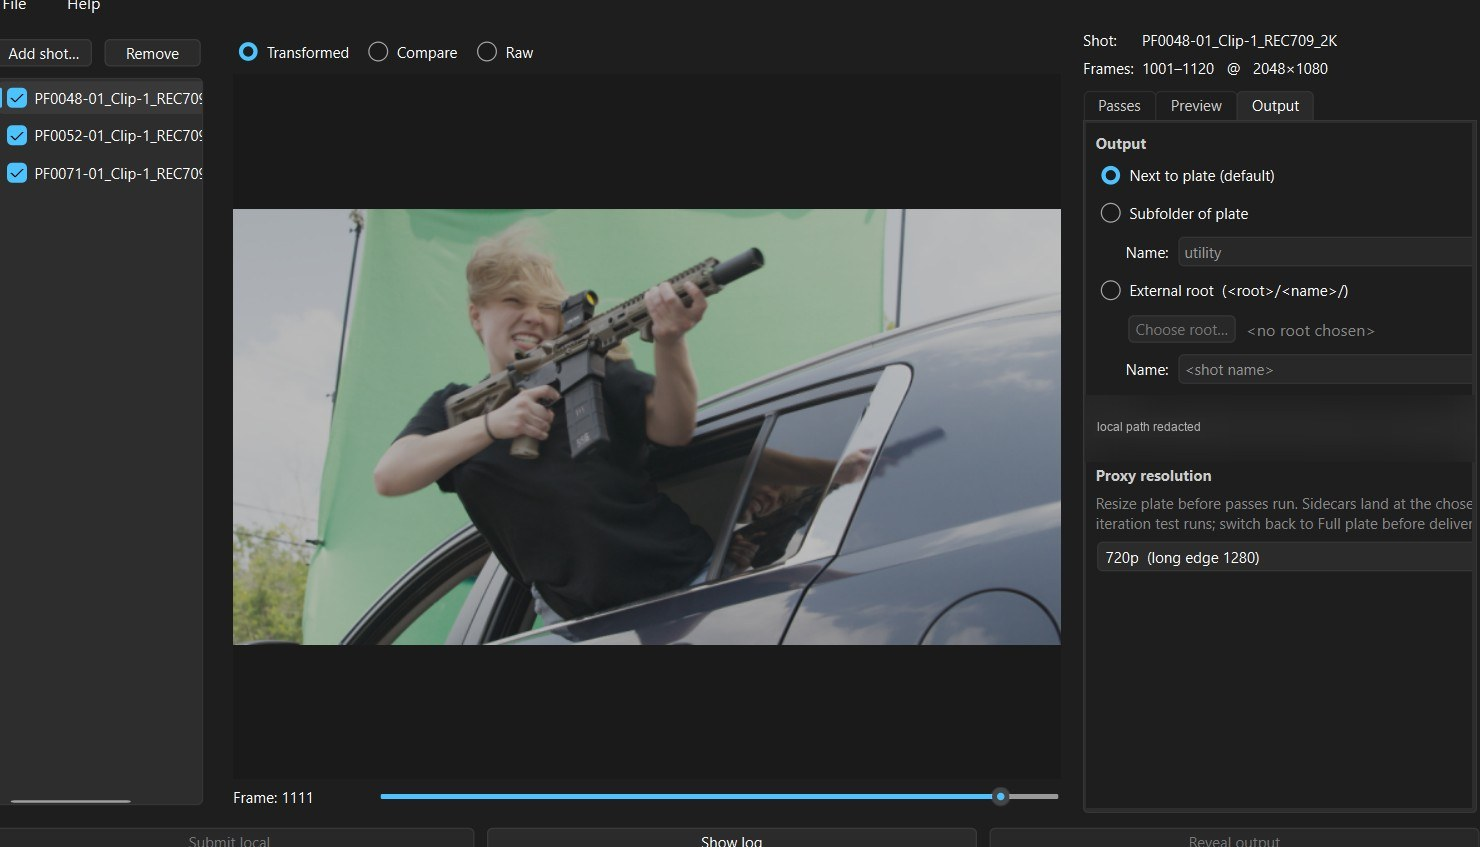
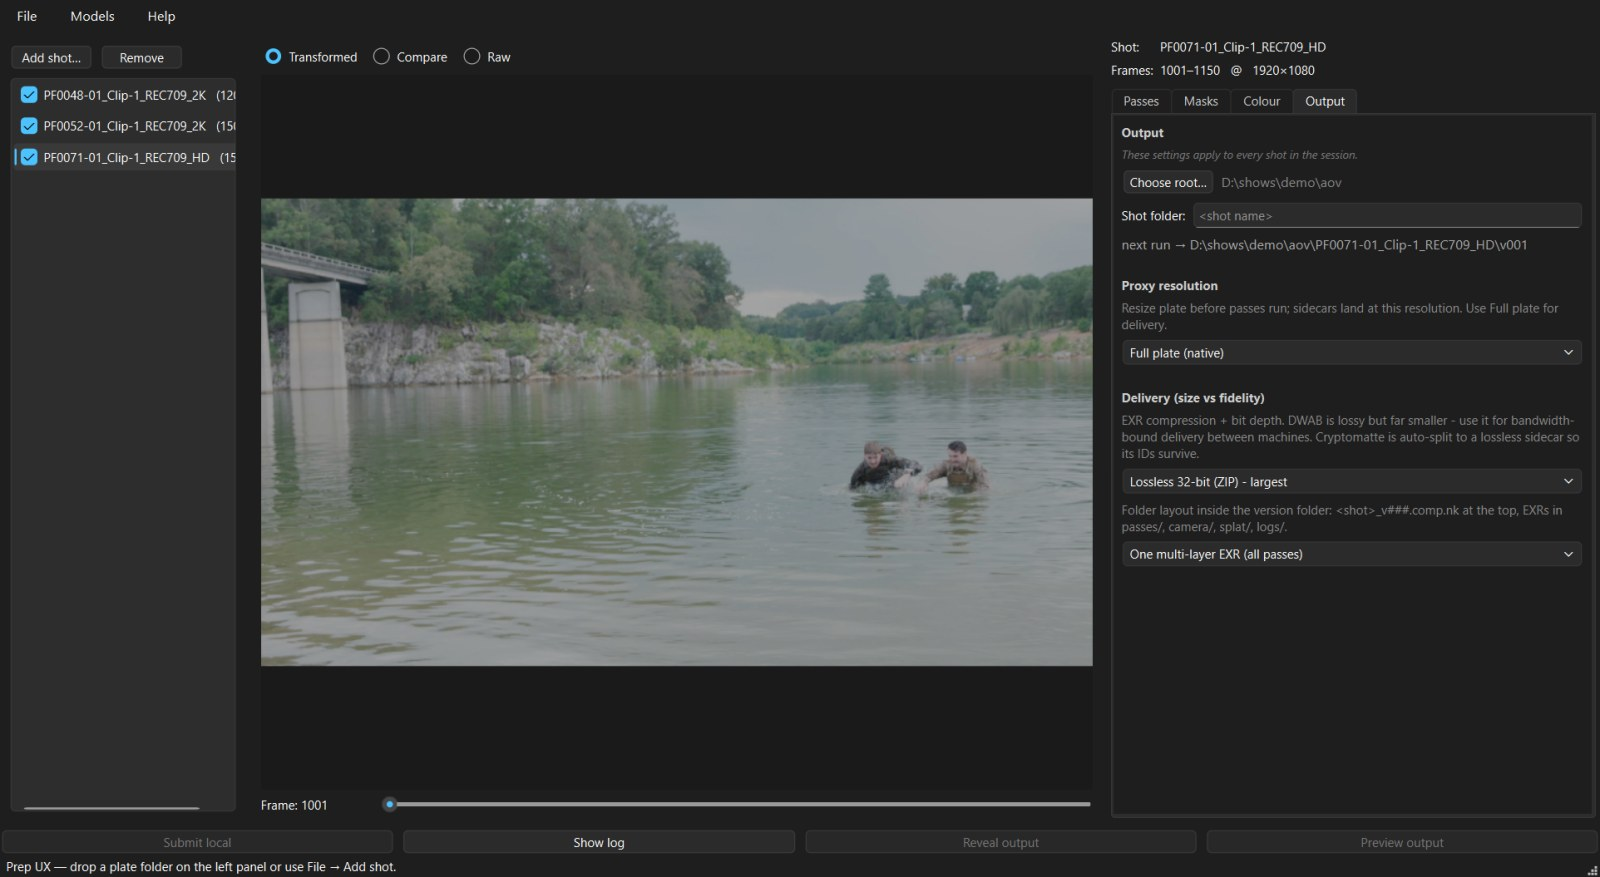
docs(readme): current GUI screenshots (Passes tab, versioned Output tab)

diff --git a/README.md b/README.md
@@ -173,13 +173,9 @@ Drop a plate folder onto the shot list, pick the passes you want, hit **Submit l
   <img src="docs/img/gui-passes-tab.jpg" alt="LiveActionAOV GUI — Passes tab" width="900">
 </p>
 
-One engine menu: **Auto** (ViTMatte) is the default, green/blue screen keying is one click away, everything else sits under Advanced. Any object in the Masks tab can use its own engine, and its preview updates as soon as you change it:
+One engine menu: **Auto** (ViTMatte) is the default, green/blue screen keying is one click away, everything else sits under Advanced. Any object in the Masks tab can use its own engine, and its preview updates as soon as you change it.
 
-<p align="center">
-  <img src="docs/img/gui-engine-menu.jpg" alt="Passes tab with the default engine, and the Masks tab with a per-object engine" width="760">
-</p>
-
-A loaded shot with the Output tab open — multi-shot batch queueing, proxy resolution, and the "what the model sees" Transformed view in the centre viewport.
+A batch of shots with the Output tab open: one output root for the session, the next version folder shown before you submit, proxy resolution and delivery format. The centre viewport shows the "what the model sees" Transformed view.
 
 <p align="center">
   <img src="docs/img/gui-loaded-shot.jpg" alt="LiveActionAOV GUI — loaded shot, Output tab" width="900">
